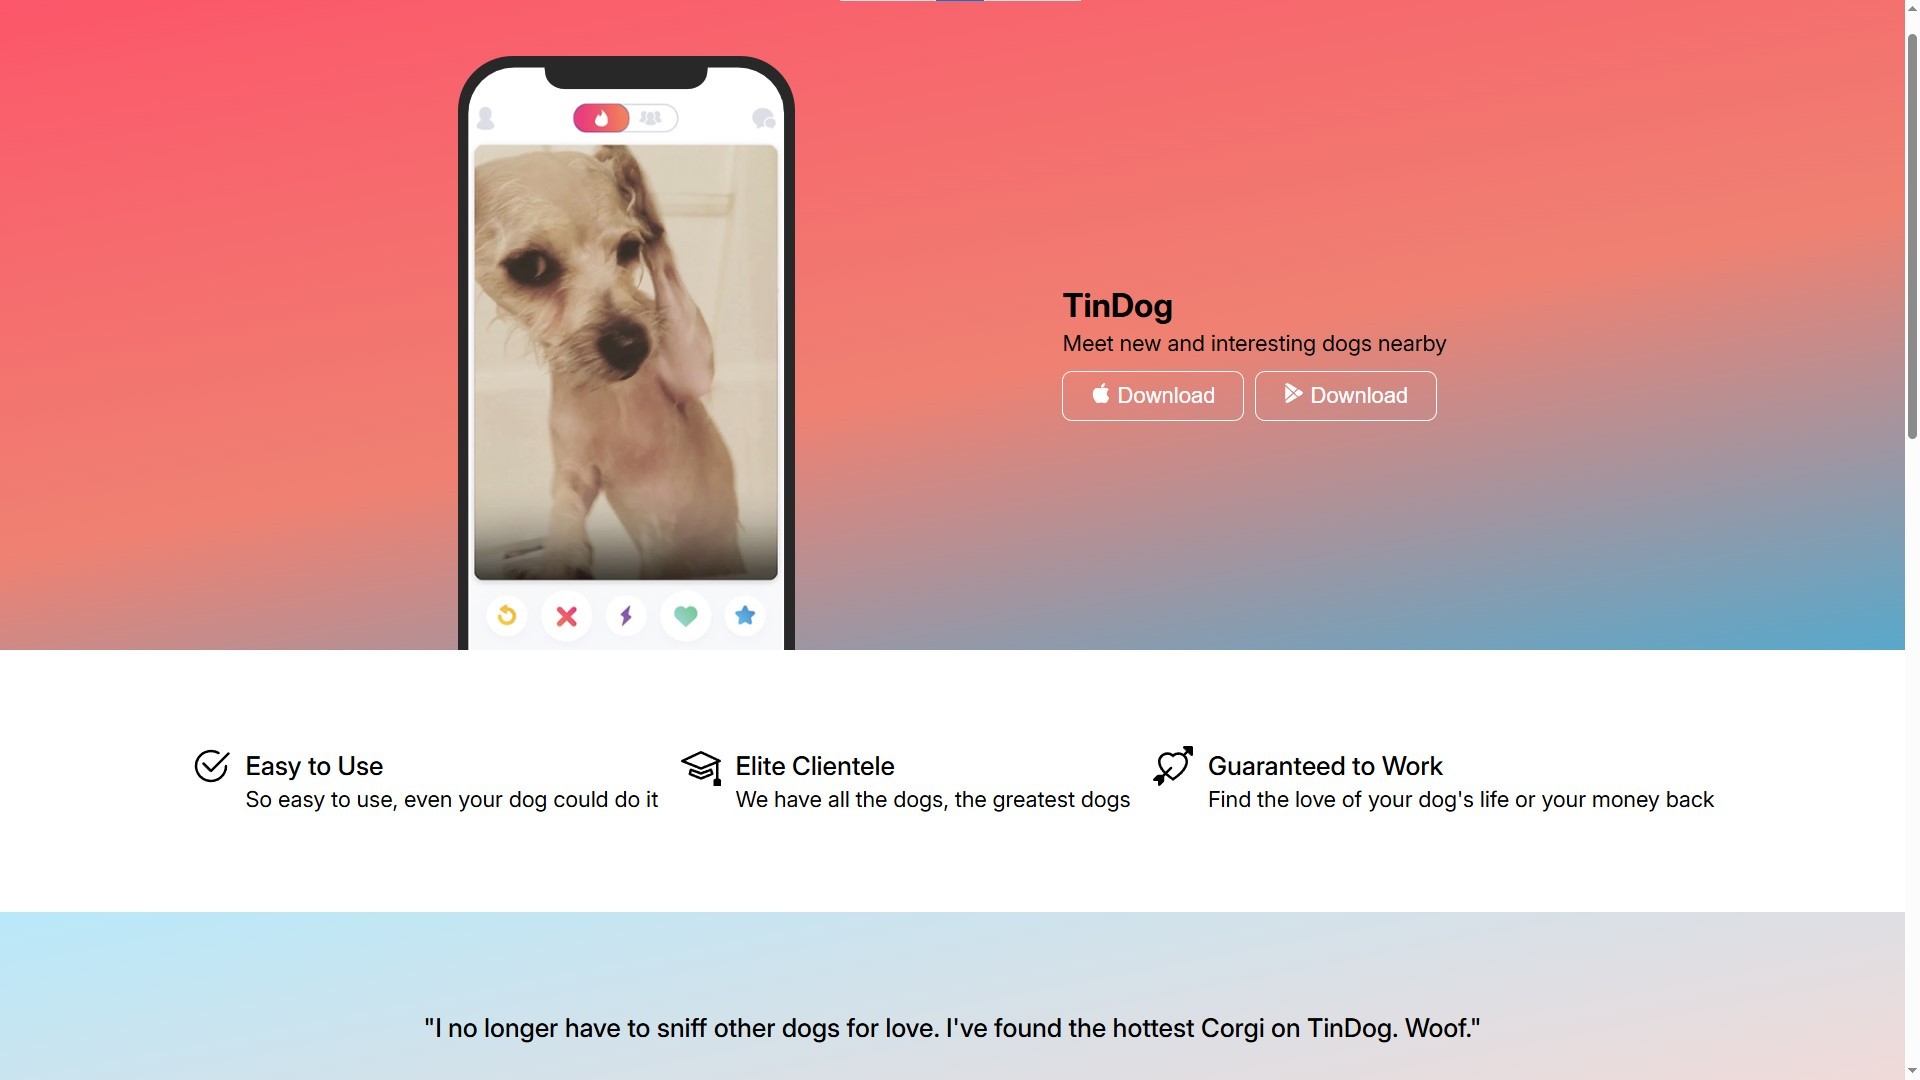
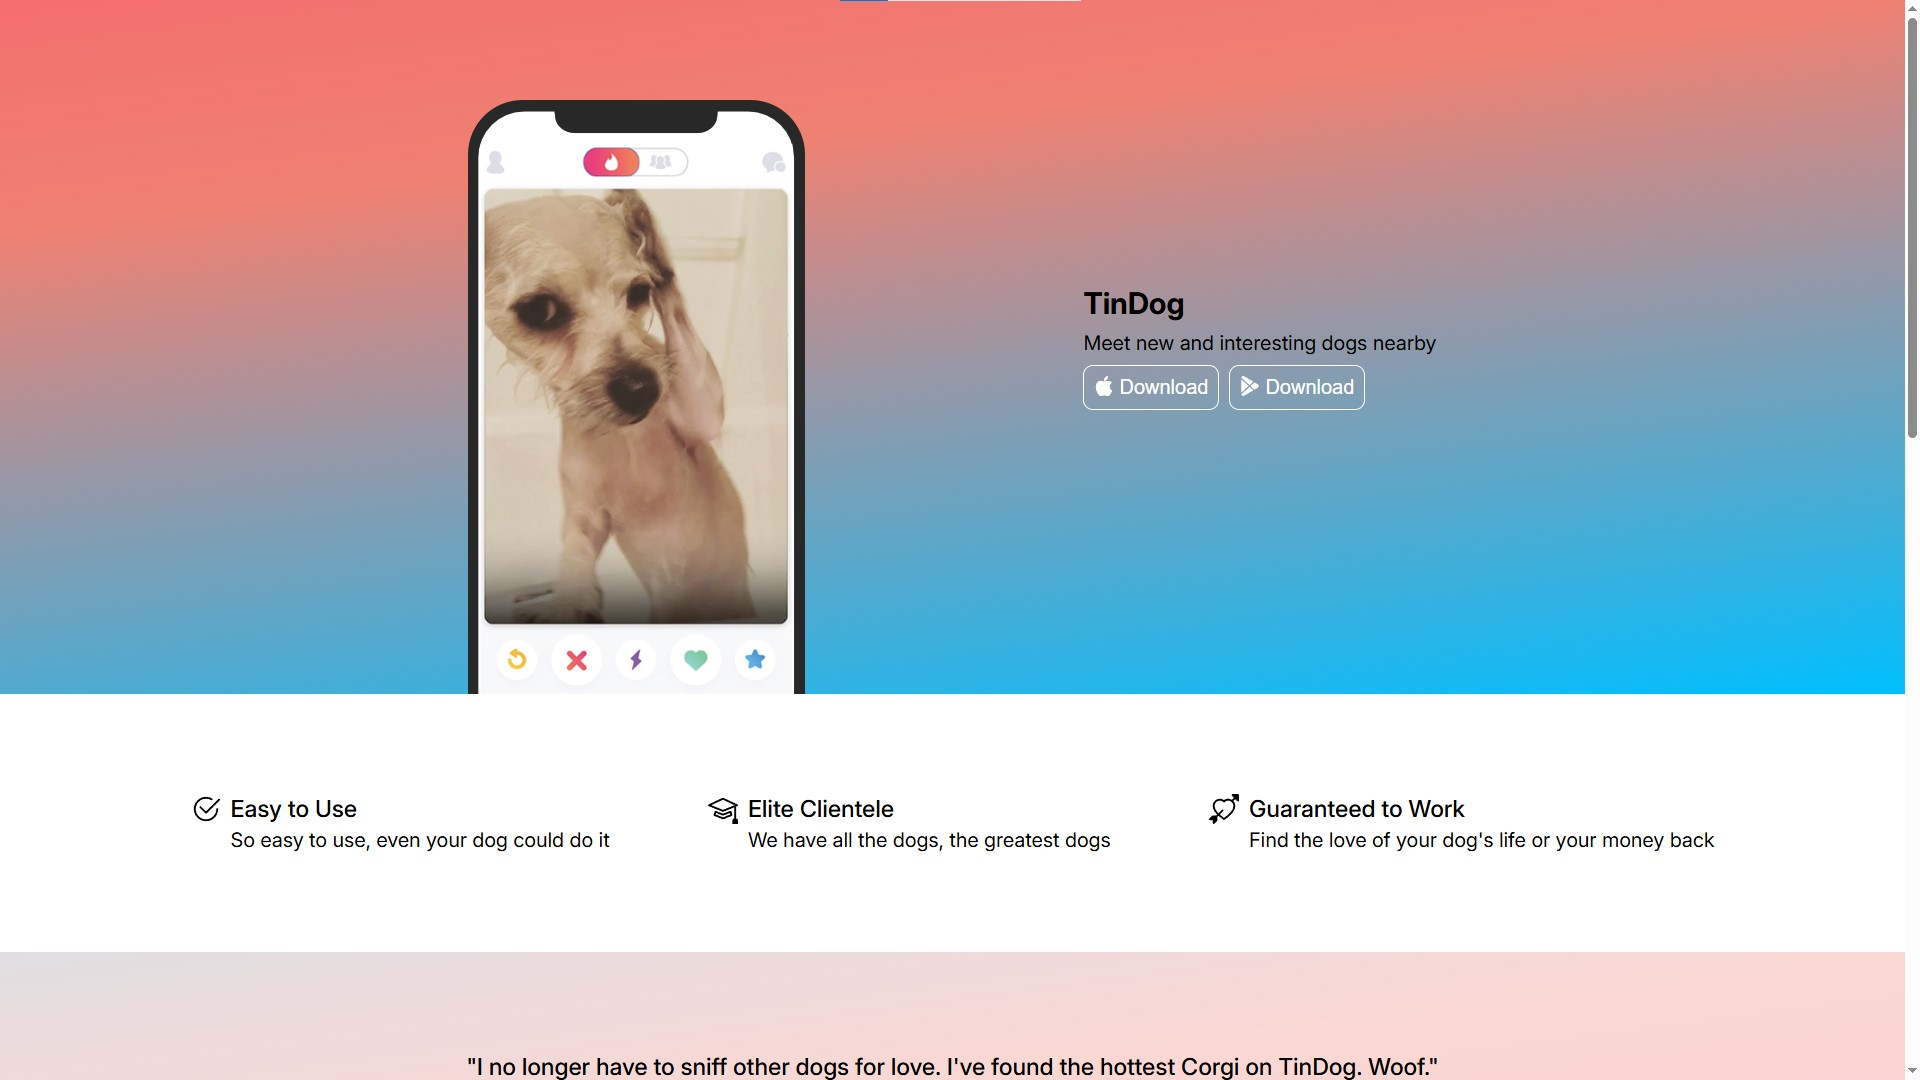
update TinDog description

diff --git a/index.html b/index.html
@@ -122,7 +122,7 @@
               </div>
               <strong>HTML, CSS, JavaScript</strong>
               <br />
-              Reponsive website introducing TinDog, Tinder for dogs
+              Reponsive website with a simple css-animated background
             </figcaption>
           </figure>
         </article>
